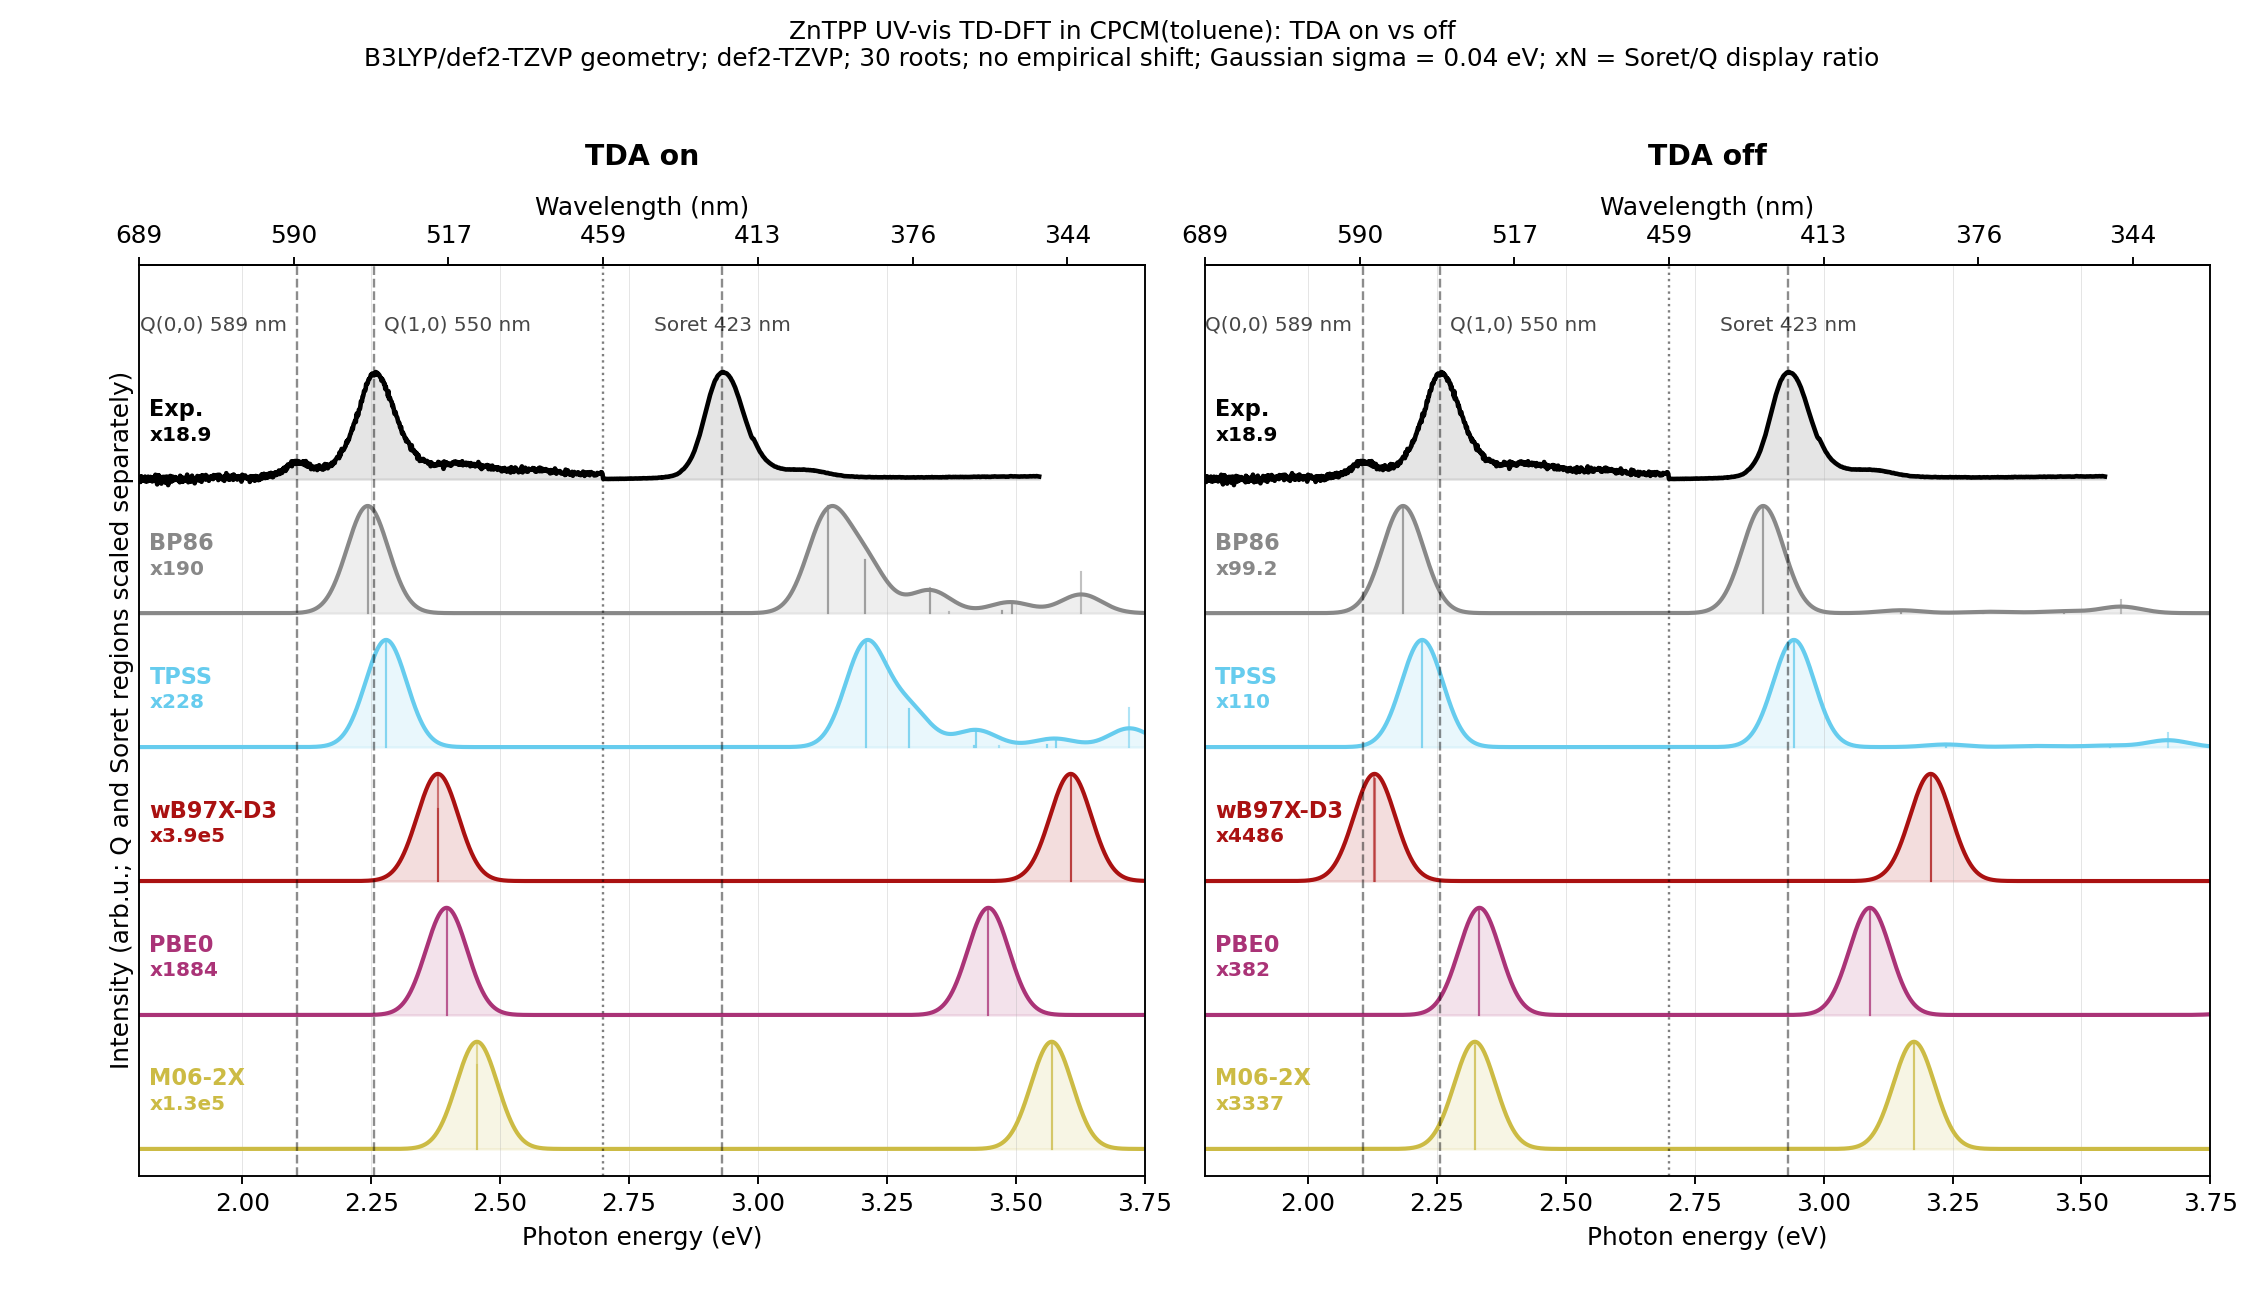
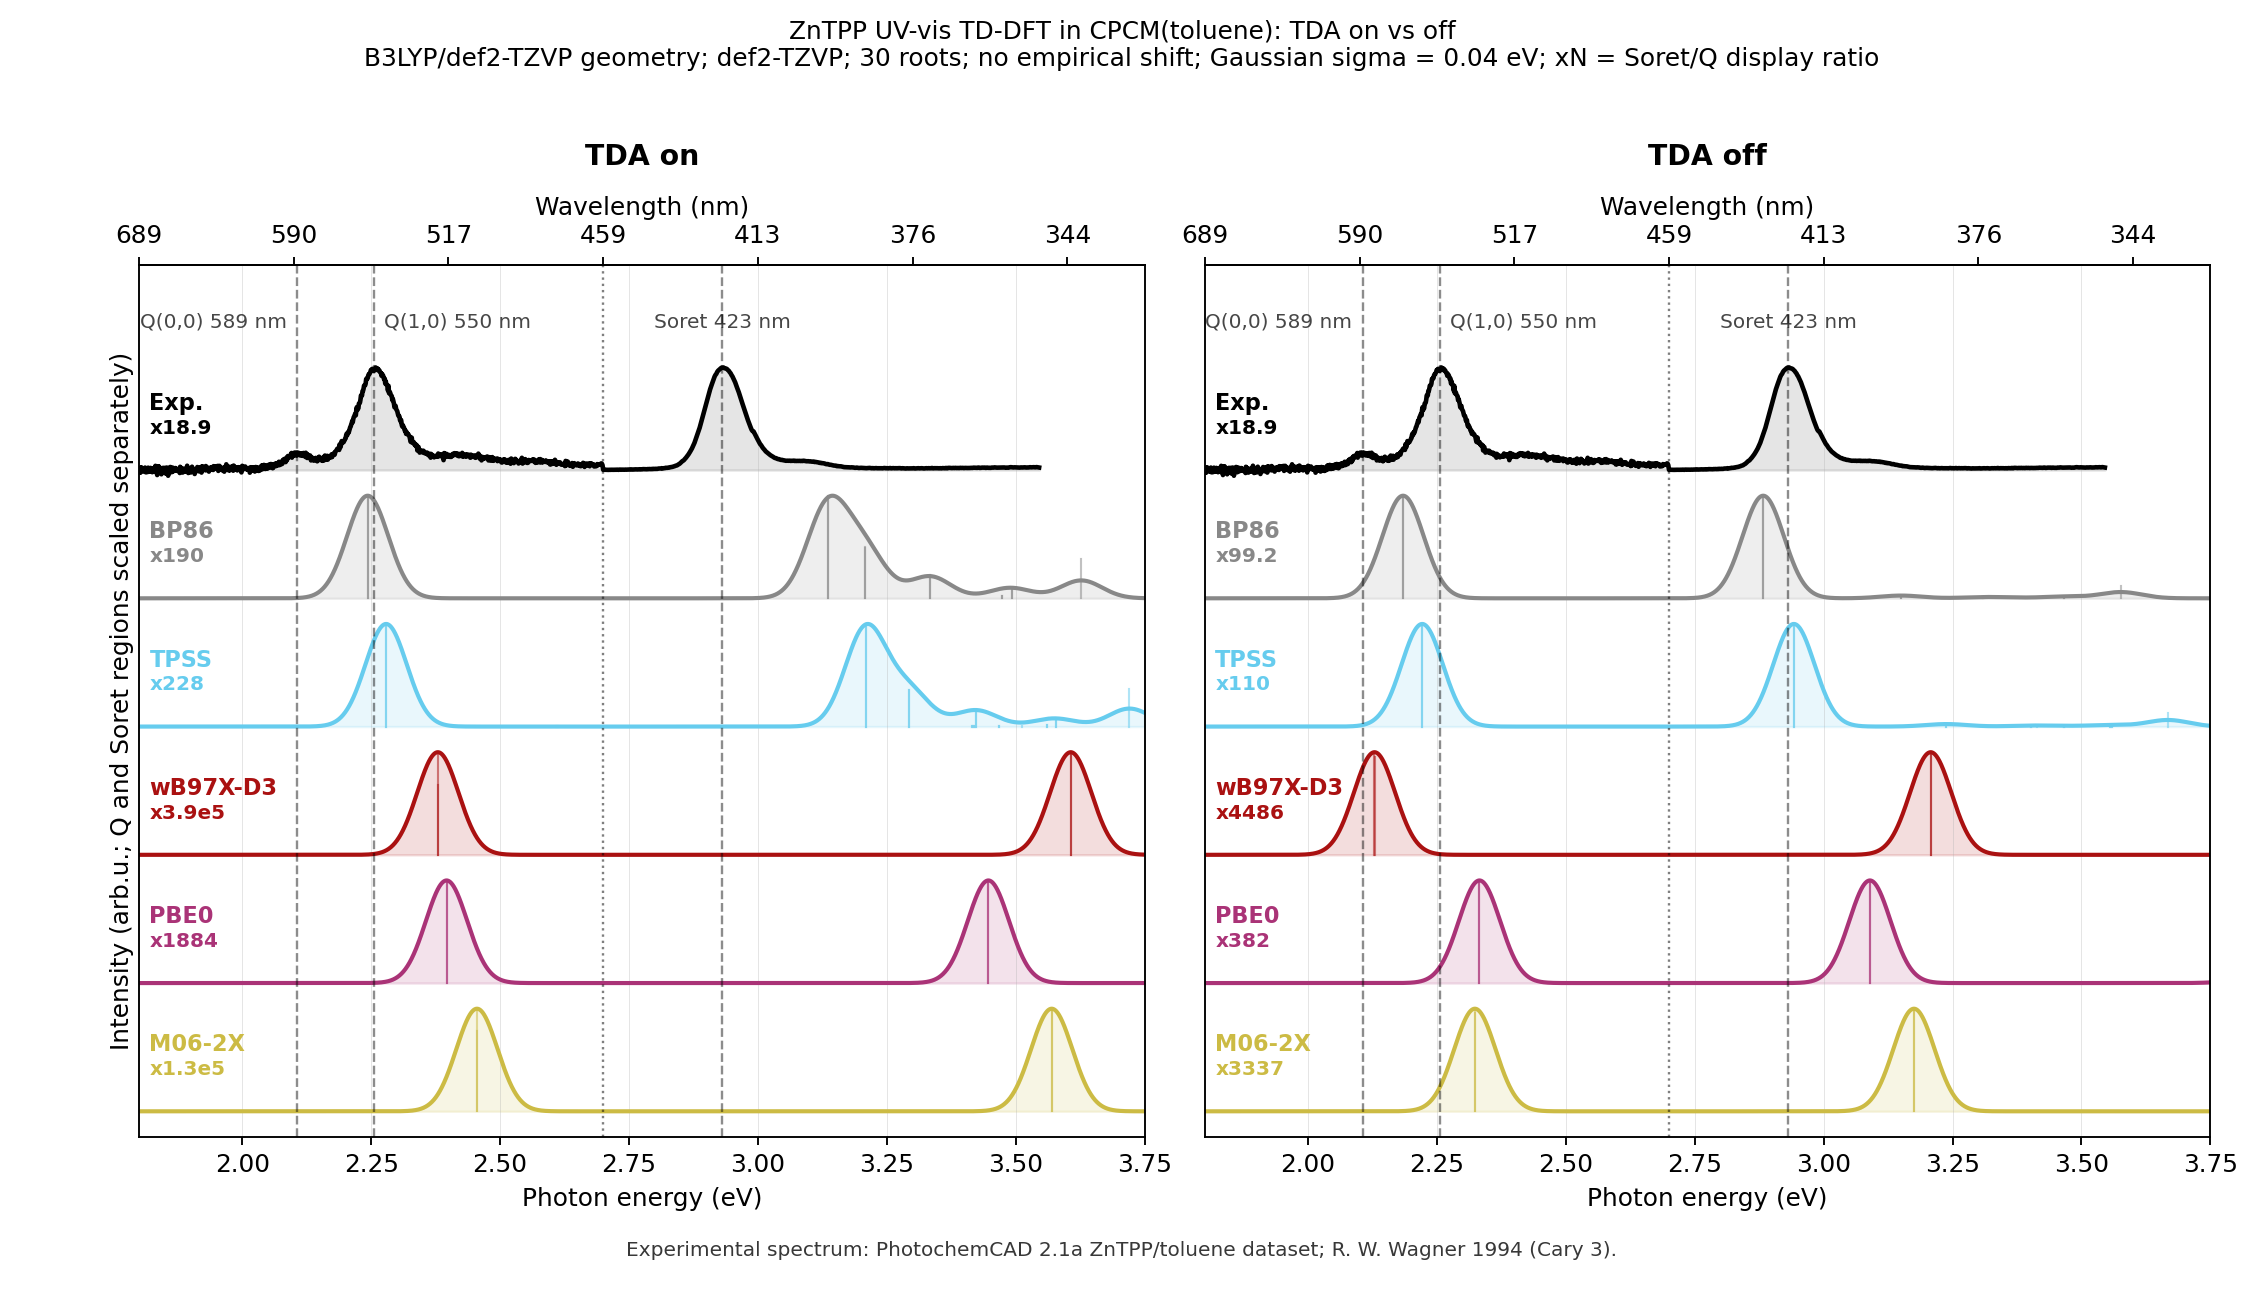
Cite ZnTPP experimental spectrum

diff --git a/benchmarks/003-zntpp-cpcm-tda-comparison/README.md b/benchmarks/003-zntpp-cpcm-tda-comparison/README.md
@@ -13,6 +13,7 @@ functionals.
 - Atoms: 77
 - Geometry: [`zntpp_b3lyp_tzvp.xyz`](zntpp_b3lyp_tzvp.xyz) (B3LYP/def2-TZVP optimized)
 - Experiment: ZnTPP/toluene absorption spectrum from PhotochemCAD 2.1a
+  (Wagner 1994, Cary 3 measurement)
 
 ## Calculation
 
@@ -63,6 +64,9 @@ Experimental reference markers in the plot: Q(0,0) 589 nm, Q(1,0) 550 nm,
 Soret 423 nm. The plot scales the Q and Soret display regions independently;
 `xN` labels report the Soret/Q display ratio. Gaussian broadening: sigma =
 0.04 eV.
+
+Experimental source: PhotochemCAD 2.1a ZnTPP/toluene absorption dataset,
+measured by R. W. Wagner in 1994 on a Cary 3.
 
 ## Hardware
 